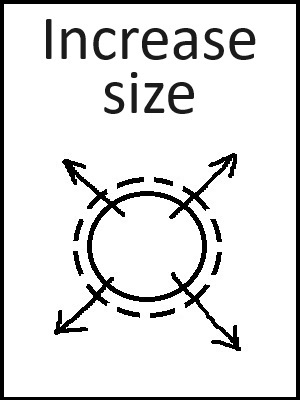
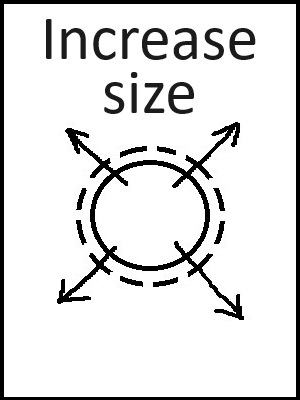
Improvements system part 2.

Changed region(s): [[0.18, 0.3, 0.81, 0.9]]

diff --git a/app/jni/src/improvements/Improvements.cpp b/app/jni/src/improvements/Improvements.cpp
@@ -14,22 +14,32 @@ namespace MagneticBall3D
         {
             if(inf.type == ImprovementType::PLAYER_SIZE)
             {
-                auto b = std::make_shared<Beryll::ButtonWithTexture>("GUI/improvements/increaseSize.jpg", "", 0, 35, 30, 30);
+                auto b = std::make_shared<Beryll::ButtonWithTexture>("GUI/improvements/IncreaseSize.jpg", "",
+                                                                               m_leftDefault, m_buttonTop, m_totalWidth, m_buttonHeight);
 
-                auto pr = std::make_shared<Beryll::ProgressBar>( 0, 65, 30, 3);
-                pr->setFontColor(0.0f, 0.0f, 0.0f, 0.0f);
-                pr->setProgressColor(0.3f, 0.0f, 0.51f, 1.0f);
-                pr->setBackgroundColor(0.6f, 0.6f, 0.6f, 1.0f);
-                pr->setProgress(0.4f);
+                auto prt = std::make_shared<Beryll::Text>("XX / XX", EnumsAndVariables::FontsPath::ROBOTO, m_progressHeight,
+                                                                      m_leftDefault, m_progressTop);
+                prt->setFontColor(0.62f, 0.0f, 0.77f, 1.0f);
 
-                ImprovementGUIBlock guiBlock(inf, b, pr);
+                ImprovementGUIBlock guiBlock(inf, b, prt);
                 m_allAvailableGUIBlocks.push_back(guiBlock);
 
                 BR_INFO("%s", "Created GUI block for PLAYER_SIZE.");
             }
             else if(inf.type == ImprovementType::PLAYER_MAX_SPEED)
             {
+                auto b = std::make_shared<Beryll::ButtonWithTexture>("GUI/improvements/MaxSpeed.jpg", "",
+                                                                     m_leftDefault, m_buttonTop, m_totalWidth, m_buttonHeight);
 
+                auto prt = std::make_shared<Beryll::Text>("XX / XX", EnumsAndVariables::FontsPath::ROBOTO, m_progressHeight,
+                                                          m_leftDefault, m_progressTop);
+                prt->setFontColor(0.62f, 0.0f, 0.77f, 1.0f);
+
+                ImprovementGUIBlock guiBlock(inf, b, prt);
+                guiBlock.info.currentLevel = 3;
+                m_allAvailableGUIBlocks.push_back(guiBlock);
+
+                BR_INFO("%s", "Created GUI block for PLAYER_MAX_SPEED.");
             }
 
         }
@@ -51,7 +61,48 @@ namespace MagneticBall3D
             m_GUIBlocksOnScreen = true;
 
             // Fill m_GUIBlocksToShow.
-            m_GUIBlocksToShow.push_back(m_allAvailableGUIBlocks.back());
+            if(m_allAvailableGUIBlocks.empty())
+            {
+                // Prepare default improvement. For example restore 50% players hp.
+            }
+            else if(m_allAvailableGUIBlocks.size() == 1)
+            {
+                m_GUIBlocksToShow.push_back(m_allAvailableGUIBlocks[0]);
+                m_GUIBlocksToShow.back().button->leftPos = m_leftPos1BlockButton;
+                m_GUIBlocksToShow.back().progressText->leftPos = m_leftPos1BlockText;
+                m_GUIBlocksToShow.back().progressText->text = std::to_string(m_GUIBlocksToShow.back().info.currentLevel);
+                m_GUIBlocksToShow.back().progressText->text += "/";
+                m_GUIBlocksToShow.back().progressText->text += std::to_string(m_GUIBlocksToShow.back().info.maxLevel);
+            }
+            else if(m_allAvailableGUIBlocks.size() == 2)
+            {
+                for(int i = 0; i < m_allAvailableGUIBlocks.size(); ++i)
+                {
+                    m_GUIBlocksToShow.push_back(m_allAvailableGUIBlocks[i]);
+                    m_GUIBlocksToShow.back().button->leftPos = m_leftPos2BlocksButtons[i];
+                    m_GUIBlocksToShow.back().progressText->leftPos = m_leftPos2BlocksTexts[i];
+                    m_GUIBlocksToShow.back().progressText->text = std::to_string(m_GUIBlocksToShow.back().info.currentLevel);
+                    m_GUIBlocksToShow.back().progressText->text += "/";
+                    m_GUIBlocksToShow.back().progressText->text += std::to_string(m_GUIBlocksToShow.back().info.maxLevel);
+                }
+            }
+            else if(m_allAvailableGUIBlocks.size() == 3)
+            {
+                for(int i = 0; i < m_allAvailableGUIBlocks.size(); ++i)
+                {
+                    m_GUIBlocksToShow.push_back(m_allAvailableGUIBlocks[i]);
+                    m_GUIBlocksToShow.back().button->leftPos = m_leftPos3BlocksButtons[i];
+                    m_GUIBlocksToShow.back().progressText->leftPos = m_leftPos3BlocksTexts[i];
+                    m_GUIBlocksToShow.back().progressText->text = std::to_string(m_GUIBlocksToShow.back().info.currentLevel);
+                    m_GUIBlocksToShow.back().progressText->text += "/";
+                    m_GUIBlocksToShow.back().progressText->text += std::to_string(m_GUIBlocksToShow.back().info.maxLevel);
+                }
+            }
+            else
+            {
+                // Select randomly 3 blocks.
+
+            }
         }
 
         if(m_GUIBlocksOnScreen)
@@ -62,7 +113,15 @@ namespace MagneticBall3D
 
                 if(block.button->getIsPressed())
                 {
-                    BR_INFO("%s", "block.button pressed");
+                    if(block.info.type == ImprovementType::PLAYER_SIZE)
+                    {
+                        BR_INFO("%s", "block PLAYER_SIZE pressed");
+                    }
+                    else if(block.info.type == ImprovementType::PLAYER_MAX_SPEED)
+                    {
+                        BR_INFO("%s", "block PLAYER_MAX_SPEED pressed");
+                    }
+
                     m_GUIBlocksOnScreen = false;
                     break;
                 }

diff --git a/app/jni/src/improvements/Improvements.h b/app/jni/src/improvements/Improvements.h
@@ -26,30 +26,26 @@ namespace MagneticBall3D
 
     struct ImprovementGUIBlock
     {
-        ImprovementGUIBlock(ImprovementInfo inf, std::shared_ptr<Beryll::ButtonWithTexture>b, std::shared_ptr<Beryll::ProgressBar> pb)
-        : info(inf), button(std::move(b)), progressBar(std::move(pb)) {}
+        ImprovementGUIBlock(ImprovementInfo inf, std::shared_ptr<Beryll::ButtonWithTexture>b, std::shared_ptr<Beryll::Text> pt)
+        : info(inf), button(std::move(b)), progressText(std::move(pt)) {}
 
         ImprovementInfo info;
         std::shared_ptr<Beryll::ButtonWithTexture> button;
-        std::shared_ptr<Beryll::ProgressBar> progressBar;
+        std::shared_ptr<Beryll::Text> progressText;
 
         void update() const
         {
             button->updateBeforePhysics();
-            progressBar->updateBeforePhysics();
+            progressText->updateBeforePhysics();
         }
 
         void draw() const
         {
             button->draw();
-            progressBar->draw();
+            progressText->draw();
         }
     };
 
-    // Should have 2 GUI elements for every improvement.
-    // 1. Button with image and description of improvements.
-    // 2. Progress bar of this improvements.
-    //
     class Improvements final
     {
     public:
@@ -67,5 +63,21 @@ namespace MagneticBall3D
         std::vector<ImprovementGUIBlock> m_GUIBlocksToShow;
         std::shared_ptr<Player> m_player;
         bool m_GUIBlocksOnScreen = false;
+
+        // Positions of GUI block in % of screen. Range 0.0f...100.0f.
+        // To create blocks.
+        float m_leftDefault = 0.0f;
+        float m_totalWidth = 30.0f;
+        float m_buttonTop = 35.0f;
+        float m_buttonHeight = 25.0f;
+        float m_progressTop = 55.0f;
+        float m_progressHeight = 5.0f;
+        // To position before show on screen. Only left-right pos should be changed. Range 0.0f...1.0f.
+        float m_leftPos1BlockButton = 0.35f;
+        float m_leftPos1BlockText = 0.42f;
+        glm::vec2 m_leftPos2BlocksButtons{0.15f, 0.55f};
+        glm::vec2 m_leftPos2BlocksTexts{0.22f, 0.62f};
+        glm::vec3 m_leftPos3BlocksButtons{0.02f, 0.35f, 0.68f};
+        glm::vec3 m_leftPos3BlocksTexts{0.09f, 0.42f, 0.75f};
     };
 }

diff --git a/app/jni/src/playState/PlayStateGUILayer.cpp b/app/jni/src/playState/PlayStateGUILayer.cpp
@@ -24,10 +24,6 @@ namespace MagneticBall3D
         m_guiObjects.push_back(sliderEnemy);
         sliderEnemy->setValue(1.0f);
 
-        sliderSpeed = std::make_shared<Beryll::SliderHorizontal>("speed", EnumsAndVariables::FontsPath::ROBOTO, 2, 2, 9, 40, 2, 0, 200);
-        m_guiObjects.push_back(sliderSpeed);
-        sliderSpeed->setValue(100.0f);
-
         progressBarHP = std::make_shared<Beryll::ProgressBar>( 60, 0, 40, 3);
         m_guiObjects.push_back(progressBarHP);
         progressBarHP->setFontColor(0.0f, 0.0f, 0.0f, 0.0f);

diff --git a/app/jni/src/maps/Map1.cpp b/app/jni/src/maps/Map1.cpp
@@ -44,7 +44,9 @@ namespace MagneticBall3D
         m_sunLightDir = -m_dirToSun;
         m_sunDistance = 600.0f;
 
-        m_improvements = Improvements(m_player, {{ImprovementType::PLAYER_SIZE, 5}});
+        m_improvements = Improvements(m_player, {{ImprovementType::PLAYER_SIZE, 5},
+                                                 {ImprovementType::PLAYER_MAX_SPEED, 7},
+                                                 {ImprovementType::PLAYER_MAX_SPEED, 8}});
     }
 
     Map1::~Map1()

diff --git a/app/jni/src/playState/PlayStateGUILayer.h b/app/jni/src/playState/PlayStateGUILayer.h
@@ -17,7 +17,6 @@ namespace MagneticBall3D
         //std::shared_ptr<Beryll::SliderHorizontal> sliderImpulse;
         //std::shared_ptr<Beryll::SliderHorizontal> sliderTorque;
         std::shared_ptr<Beryll::SliderHorizontal> sliderEnemy;
-        std::shared_ptr<Beryll::SliderHorizontal> sliderSpeed;
         std::shared_ptr<Beryll::ProgressBar> progressBarHP;
         std::shared_ptr<Beryll::ProgressBar> progressBarXP;
         std::shared_ptr<Beryll::ButtonWithText> buttonA;

diff --git a/app/jni/src/EnumsAndVariables.h b/app/jni/src/EnumsAndVariables.h
@@ -43,7 +43,7 @@ namespace EnumsAndVariables
     constexpr inline glm::vec3 playerGravityOnGround{0.0f, -25.0f, 0.0f};
     constexpr inline glm::vec3 playerGravityOnBuilding{0.0f, -4.0f, 0.0f};
     constexpr inline glm::vec3 playerGravityOnJumppad{0.0f, -10.0f, 0.0f};
-    inline float playerMaxSpeedXZ = 20.0f;
+    inline float playerMaxSpeedXZ = 100.0f;
     constexpr inline float playerSpeedForMeteor = 70.0f;
     constexpr inline float playerLeftRightTurnPower = 2.0f;
 

diff --git a/app/jni/src/maps/BaseMap.cpp b/app/jni/src/maps/BaseMap.cpp
@@ -43,7 +43,6 @@ namespace MagneticBall3D
         }
 
         EnumsAndVariables::maxActiveEnemiesCount = int(m_gui->sliderEnemy->getValue());
-        EnumsAndVariables::playerMaxSpeedXZ = m_gui->sliderSpeed->getValue();
 
         if(m_gui->buttonA->getIsPressed())
         {
